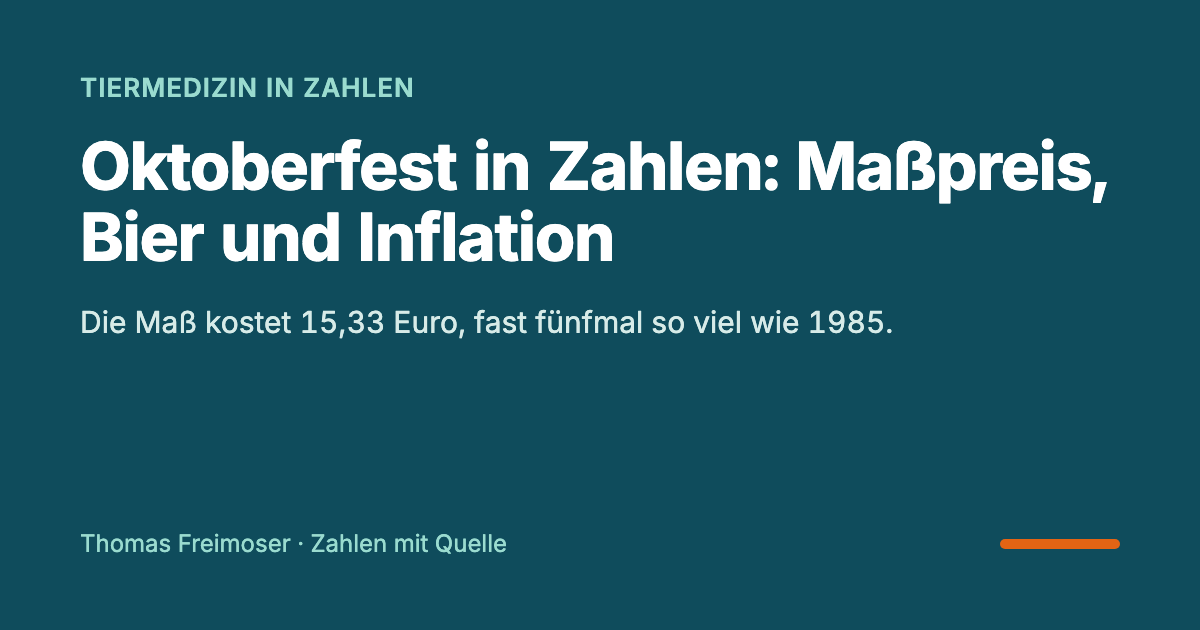
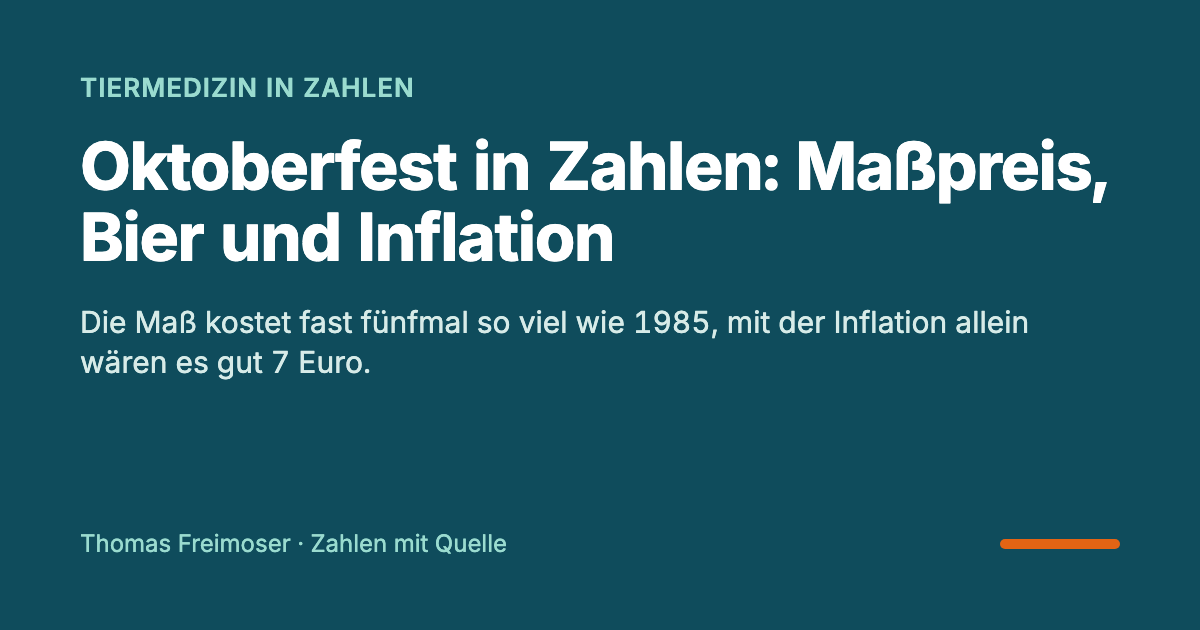
Oktoberfest: Wiesn 2026 vorläufig, Besucher als zweite Säule
- 2026 nach der Bilanz der Stadt (7,4 Mio. Besucher, Rekord), Bier und
  Maßpreis aus den gemeldeten Steigerungen fortgeschrieben, Inflation aus
  den Monatsraten Januar bis September
- Bier und Besucher als zwei Säulen nebeneinander
- Artikel: "Mehr Gäste, weniger Bier pro Kopf" (0,93 Liter, niedrigster Wert seit 2001)

Changed region(s): [[0.0617, 0.4825, 0.8633, 0.6032]]

diff --git a/src/samples/data.ts b/src/samples/data.ts
@@ -397,49 +397,50 @@ export const GESCHLECHT_PRAXIS = {
 }
 
 export const OKTOBERFEST = {
-  headers: ["Jahr","Bier (Mio. Liter)","Maß","Maß mit Inflation","Gesamt: Besucher (Mio.)"],
+  headers: ["Jahr","Bier (Mio. Liter)","Besucher (Mio.)","Maß","Maß mit Inflation"],
   rows: [
-    ["1985", 5.45, 3.2, 3.2, 7.1],
-    ["1986", 5.38, 3.3, 3.2, 6.7],
-    ["1987", 5.18, 3.37, 3.2, 6.5],
-    ["1988", 5.1, 3.45, 3.24, 5.7],
-    ["1989", 5.12, 3.6, 3.34, 6.2],
-    ["1990", 5.43, 3.77, 3.42, 6.7],
-    ["1991", 5.47, 4.21, 3.55, 6.4],
-    ["1992", 4.89, 4.42, 3.73, 5.9],
-    ["1993", 5.19, 4.71, 3.9, 6.5],
-    ["1994", 5.21, 4.89, 4, 6.6],
-    ["1995", 5.02, 5.15, 4.07, 6.7],
-    ["1996", 5.26, 5.24, 4.13, 6.9],
-    ["1997", 5.59, 5.45, 4.21, 6.4],
-    ["1998", 5.48, 5.6, 4.25, 6.5],
-    ["1999", 6.01, 5.8, 4.27, 6.5],
-    ["2000", 6.46, 6.35, 4.33, 6.9],
-    ["2001", 4.87, 6.47, 4.42, 5.5],
-    ["2002", 5.76, 6.75, 4.48, 5.9],
-    ["2003", 6.23, 6.75, 4.53, 6.3],
-    ["2004", 6.12, 7.02, 4.6, 5.9],
-    ["2005", 6.18, 7.15, 4.68, 6.1],
-    ["2006", 6.86, 7.42, 4.75, 6.5],
-    ["2007", 6.94, 7.85, 4.86, 6.2],
-    ["2008", 6.49, 8.25, 4.99, 6],
-    ["2009", 6.64, 8.53, 5, 5.7],
-    ["2010", 7.1, 8.79, 5.05, 6.4],
-    ["2011", 7.92, 9.09, 5.16, 6.9],
-    ["2012", 7.4, 9.41, 5.26, 6.4],
-    ["2013", 7.7, 9.78, 5.34, 6.4],
-    ["2014", 7.68, 9.98, 5.39, 6.3],
-    ["2015", 7.51, 10.27, 5.42, 5.9],
-    ["2016", 6.62, 10.57, 5.45, 5.6],
-    ["2017", 7.78, 10.87, 5.53, 6.2],
-    ["2018", 7.87, 11.3, 5.63, 6.3],
-    ["2019", 7.85, 11.71, 5.71, 6.3],
-    ["2020", null, null, 5.74, null],
-    ["2021", null, null, 5.91, null],
-    ["2022", 7.13, 13.45, 6.32, 5.7],
-    ["2023", 7.44, 14.33, 6.69, 7.2],
-    ["2024", 6.96, 14.9, 6.84, 6.8],
-    ["2025", 6.71, 15.33, 6.99, 6.5],
+    ["1985", 5.45, 7.1, 3.2, 3.2],
+    ["1986", 5.38, 6.7, 3.3, 3.2],
+    ["1987", 5.18, 6.5, 3.37, 3.2],
+    ["1988", 5.1, 5.7, 3.45, 3.24],
+    ["1989", 5.12, 6.2, 3.6, 3.34],
+    ["1990", 5.43, 6.7, 3.77, 3.42],
+    ["1991", 5.47, 6.4, 4.21, 3.55],
+    ["1992", 4.89, 5.9, 4.42, 3.73],
+    ["1993", 5.19, 6.5, 4.71, 3.9],
+    ["1994", 5.21, 6.6, 4.89, 4],
+    ["1995", 5.02, 6.7, 5.15, 4.07],
+    ["1996", 5.26, 6.9, 5.24, 4.13],
+    ["1997", 5.59, 6.4, 5.45, 4.21],
+    ["1998", 5.48, 6.5, 5.6, 4.25],
+    ["1999", 6.01, 6.5, 5.8, 4.27],
+    ["2000", 6.46, 6.9, 6.35, 4.33],
+    ["2001", 4.87, 5.5, 6.47, 4.42],
+    ["2002", 5.76, 5.9, 6.75, 4.48],
+    ["2003", 6.23, 6.3, 6.75, 4.53],
+    ["2004", 6.12, 5.9, 7.02, 4.6],
+    ["2005", 6.18, 6.1, 7.15, 4.68],
+    ["2006", 6.86, 6.5, 7.42, 4.75],
+    ["2007", 6.94, 6.2, 7.85, 4.86],
+    ["2008", 6.49, 6, 8.25, 4.99],
+    ["2009", 6.64, 5.7, 8.53, 5],
+    ["2010", 7.1, 6.4, 8.79, 5.05],
+    ["2011", 7.92, 6.9, 9.09, 5.16],
+    ["2012", 7.4, 6.4, 9.41, 5.26],
+    ["2013", 7.7, 6.4, 9.78, 5.34],
+    ["2014", 7.68, 6.3, 9.98, 5.39],
+    ["2015", 7.51, 5.9, 10.27, 5.42],
+    ["2016", 6.62, 5.6, 10.57, 5.45],
+    ["2017", 7.78, 6.2, 10.87, 5.53],
+    ["2018", 7.87, 6.3, 11.3, 5.63],
+    ["2019", 7.85, 6.3, 11.71, 5.71],
+    ["2020", null, null, null, 5.74],
+    ["2021", null, null, null, 5.91],
+    ["2022", 7.13, 5.7, 13.45, 6.32],
+    ["2023", 7.44, 7.2, 14.33, 6.69],
+    ["2024", 6.96, 6.8, 14.9, 6.84],
+    ["2025", 6.71, 6.5, 15.33, 6.99],
+    ["2026", 6.89, 7.4, 15.69, 7.18],
   ],
 }
 

diff --git a/src/samples/index.ts b/src/samples/index.ts
@@ -303,22 +303,23 @@ export const SAMPLES: SampleDataset[] = [
     erstellt: '2026-10-04', geprueft: '2026-10-04',
     category: 'exkurs',
     title: 'Die Maß wird teurer, getrunken wird mehr',
-    subtitle: 'Oktoberfest München: Bier in Mio. Liter (Säulen) und Preis einer Maß, 1985 bis 2025',
-    source: 'Quelle: Landeshauptstadt München, Statistisches Amt (Open Data, dl-de/by-2-0); Verbraucherpreisindex: Destatis. 2020/21 keine Wiesn',
+    subtitle: 'Oktoberfest München: Bier und Besucher (Säulen), Preis einer Maß (Linien), 1985 bis 2026',
+    source: 'Quelle: Landeshauptstadt München, Statistisches Amt (Open Data, dl-de/by-2-0), 2026 vorläufig nach Bilanz der Stadt; Verbraucherpreisindex: Destatis. 2020/21 keine Wiesn',
     sourceUrl: 'https://opendata.muenchen.de/dataset/oktoberfest',
     unit: 'Mio. Liter',
-    description: 'Die Maß kostet fast fünfmal so viel wie 1985, mit der Inflation allein wären es 6,99 Euro. Getrunken wird trotzdem mehr.',
+    description: 'Die Maß kostet fast fünfmal so viel wie 1985, mit der Inflation allein wären es gut 7 Euro. 2026 kamen so viele Gäste wie nie.',
     dataInfo: [
       "Bier, Maßpreis und Besucher stammen unverändert aus der Oktoberfest-Statistik des Statistischen Amts München (Open Data Portal, Stand 13.07.2026). Bier ist der Ausschank laut Festwirten, umgerechnet von Hektolitern in Millionen Liter; Besucher sind geschätzt. Der Maßpreis ist der Durchschnitt aller Zelte, vor 2002 aus D-Mark in Euro umgerechnet.",
       "„Maß mit Inflation“ ist berechnet: der Maßpreis von 1985, fortgeschrieben mit dem Verbraucherpreisindex für Deutschland (Destatis, Jahresdurchschnitte). Für 1985 bis 1990 gibt es keinen gesamtdeutschen Index; dort gilt der Index des früheren Bundesgebiets, 1991 verkettet. 2025 ist aus der amtlichen Jahresrate von 2,2 Prozent fortgeschrieben.",
+      "2026 ist vorläufig, nach der Bilanz der Stadt vom 04.10.2026: 7,4 Millionen Besucher (erste Schätzung der Festleitung). Bier und Maßpreis sind die amtlichen Werte von 2025, fortgeschrieben mit den gemeldeten Steigerungen (Festbier +2,7 Prozent, Maßpreis +2,38 Prozent), weil die Stadt in der Bilanz anders zählt als das Statistische Amt. Die Inflation 2026 ist das Mittel der Monatsraten Januar bis September.",
       "2020 und 2021 fiel die Wiesn wegen Corona aus. Diese Jahre bleiben leer, es wird nichts aufgefüllt; nur die Inflation läuft weiter. Die Wiesn dauerte je nach Jahr 16 bis 18 Tage, das erklärt einen Teil der Schwankungen bei Bier und Besuchern.",
     ],
     headers: OKTOBERFEST.headers,
     rows: OKTOBERFEST.rows,
     suggested: {
-      chartType: 'combo', decimals: 1, primaryAxisLabel: 'Bier in Mio. Liter', secondaryAxisLabel: 'Preis einer Maß',
+      chartType: 'combo', decimals: 1, primaryAxisLabel: 'Millionen (Liter bzw. Besucher)', secondaryAxisLabel: 'Preis einer Maß',
       secondaryAxis: ['Maß', 'Maß mit Inflation'], secondaryDecimals: 2, secondarySuffix: ' €', showChange: true, gapFill: 'none',
-      colors: { 'Bier (Mio. Liter)': '#f3a712', 'Maß': '#0f4c5c', 'Maß mit Inflation': '#8a949e' },
+      colors: { 'Bier (Mio. Liter)': '#f3a712', 'Besucher (Mio.)': '#7fb7be', 'Maß': '#0f4c5c', 'Maß mit Inflation': '#8a949e' },
     },
   },
   {

diff --git a/artikel/datenherkunft.html b/artikel/datenherkunft.html
@@ -296,17 +296,21 @@
           <strong>Quelle:</strong> Statistisches Amt der Landeshauptstadt München, Datensatz „Oktoberfest 1985–2025“ im
           <a href="https://opendata.muenchen.de/dataset/oktoberfest" rel="noopener">Open Data Portal München</a>, Stand
           13.07.2026, Datenlizenz Deutschland – Namensnennung – Version 2.0. Verbraucherpreisindex: Statistisches
-          Bundesamt, Lange Reihen ab 1948. <strong>Zeitraum:</strong> 1985 bis 2025, ohne 2020 und 2021.
+          Bundesamt, Lange Reihen ab 1948. <strong>Zeitraum:</strong> 1985 bis 2026, ohne 2020 und 2021; 2026 vorläufig nach der
+          <a href="https://www.muenchen.de/veranstaltungen/oktoberfest/aktuell/oktoberfest-bilanz-2026" rel="noopener">Bilanz der Stadt vom 04.10.2026</a>.
         </p>
         <p>
           <strong>Annahmen:</strong> Bier, Maßpreis und Besucher unverändert aus der Quelle, Hektoliter in Liter
           umgerechnet. Besucher sind geschätzt, Bier und Hendl beruhen auf Angaben der Festwirte. „Maß mit Inflation“ ist
           berechnet: Maßpreis 1985 mal Verbraucherpreisindex des Jahres durch den von 1985. Bis 1990 gilt der Index des
-          früheren Bundesgebiets, 1991 verkettet; 2025 ist aus der Jahresrate von 2,2 Prozent fortgeschrieben.
+          früheren Bundesgebiets, 1991 verkettet; 2025 ist aus der Jahresrate von 2,2 Prozent fortgeschrieben, 2026 aus dem
+          Mittel der Monatsraten Januar bis September (2,6 Prozent). 2026: Besucher laut erster Schätzung der Festleitung,
+          Bier und Maßpreis als amtliche Werte 2025 mal den gemeldeten Steigerungen (+2,7 und +2,38 Prozent), weil die
+          Bilanz der Stadt anders zählt als die amtliche Reihe.
         </p>
         <p>
-          <strong>Aufbereitet:</strong> Bier als Säulen, Maßpreis und Inflation als Linien mit Veränderung seit 1985,
-          Besucher als mitlaufende Zahl. 2020 und 2021 bleiben leer, nichts wird aufgefüllt. Die Erläuterung steht im
+          <strong>Aufbereitet:</strong> Bier und Besucher als Säulen nebeneinander, Maßpreis und Inflation als Linien mit
+          Veränderung seit 1985. 2020 und 2021 bleiben leer, nichts wird aufgefüllt. Die Erläuterung steht im
           Artikel <a href="../beitrag/oktoberfest-masspreis-inflation.html">Oktoberfest in Zahlen</a>.
         </p>
         <p class="meta">Recherchiert 04.10.2026 · zuletzt geprüft 04.10.2026</p>

diff --git a/src/content/artikel/exkurs-oktoberfest-masspreis.md b/src/content/artikel/exkurs-oktoberfest-masspreis.md
@@ -2,26 +2,26 @@
 art: exkurs
 slug: oktoberfest-masspreis-inflation
 titel: Oktoberfest in Zahlen: Maßpreis, Bier und Inflation
-beschreibung: Die Maß kostet 15,33 Euro, fast fünfmal so viel wie 1985. Mit der Inflation allein wären es 6,99 Euro. Getrunken wird trotzdem mehr. Daten seit 1985.
+beschreibung: Die Maß kostet fast fünfmal so viel wie 1985, mit der Inflation allein wären es gut 7 Euro. 2026 kamen 7,4 Millionen Gäste, so viele wie nie.
 frage: Wie stark ist der Bierpreis auf dem Oktoberfest gestiegen?
 suchbegriffe: maßpreis oktoberfest entwicklung, bierpreis wiesn seit 1985, oktoberfest statistik, maß bier preis inflation, oktoberfest bierkonsum
 stand: 2026-10-04
 grafik: oktoberfest
 bereit: ja
 ---
-Eine Maß auf dem Oktoberfest kostete 2025 im Schnitt **15,33 Euro, fast fünfmal so viel wie 1985** mit 3,20 Euro. Wäre sie nur mit den Verbraucherpreisen gestiegen, läge sie heute bei **6,99 Euro**. Getrunken wird trotzdem mehr: 6,7 Millionen Liter statt 5,5 Millionen, bei etwa gleich vielen Besuchern. Das zeigen die Zahlen des Statistischen Amts München für 39 Wiesn seit 1985.
+Eine Maß auf dem Oktoberfest kostete 2025 im Schnitt **15,33 Euro, fast fünfmal so viel wie 1985** mit 3,20 Euro, 2026 nach vorläufigen Zahlen rund 15,69 Euro. Wäre sie nur mit den Verbraucherpreisen gestiegen, läge sie heute bei **gut 7 Euro**. Getrunken wird trotzdem mehr als 1985, und die Wiesn 2026 hatte mit **7,4 Millionen Gästen** so viele wie nie. Pro Kopf floss dabei aber so wenig Bier wie seit 2001 nicht mehr. Das zeigen die Zahlen des Statistischen Amts München für 39 Wiesn seit 1985 und die Bilanz der Stadt von heute.
 
 ## Ein Exkurs, und warum
 
-Auf dieser Seite geht es sonst um Tierärzte, Praxen und Haustiere. Heute, am letzten Wiesn-Tag 2026, geht es ums Bier, aus einem Grund: Das [Studio](../studio/), mit dem alle Grafiken dieser Seite entstehen, hat ein neues Diagramm bekommen, **Säulen + Linie**. Es zeigt zwei Einheiten in einem Bild, hier die Biermenge als Säulen und den Maßpreis als Linie. Dafür braucht es Daten, bei denen Menge und Preis zusammen eine Geschichte erzählen. Die Wiesn liefert sie.
+Auf dieser Seite geht es sonst um Tierärzte, Praxen und Haustiere. Heute, am letzten Wiesn-Tag 2026, geht es ums Bier, aus einem Grund: Das [Studio](../studio/), mit dem alle Grafiken dieser Seite entstehen, hat ein neues Diagramm bekommen, **Säulen + Linie**. Es zeigt zwei Einheiten in einem Bild, hier Bier und Besucher als Säulen nebeneinander und den Maßpreis als Linie. Dafür braucht es Daten, bei denen Menge und Preis zusammen eine Geschichte erzählen. Die Wiesn liefert sie.
 
 ## Das Wichtigste in Kürze
 
-- **Maßpreis:** 3,20 Euro 1985, 15,33 Euro 2025, plus 379 Prozent. 2015 kostete die Maß zum ersten Mal mehr als 10 Euro.
-- **Inflation:** Die Verbraucherpreise stiegen im selben Zeitraum um 118 Prozent. Die Maß ist also auch nach Abzug der Inflation mehr als doppelt so teuer wie 1985 (Faktor 2,19, berechnet).
-- **Bier:** 5,5 Millionen Liter 1985, 6,7 Millionen 2025, plus 23 Prozent. Der Rekord stammt von 2011 mit 7,9 Millionen Litern.
-- **Besucher:** 7,1 Millionen 1985, 6,5 Millionen 2025. Der Rekord von 7,2 Millionen fiel 2023, auf einer Wiesn mit 18 statt 16 Tagen.
-- **Liter je Besucher:** von 0,77 im Jahr 1985 auf 1,27 im Jahr 2015. Seit 2023 sind es nur noch rund 1,03 (berechnet).
+- **Maßpreis:** 3,20 Euro 1985, 15,33 Euro 2025, plus 379 Prozent. 2026 vorläufig 15,69 Euro, plus 390 Prozent. 2015 kostete die Maß zum ersten Mal mehr als 10 Euro.
+- **Inflation:** Die Verbraucherpreise stiegen von 1985 bis 2026 um 124 Prozent. Die Maß ist also auch nach Abzug der Inflation mehr als doppelt so teuer wie 1985 (Faktor 2,19, berechnet).
+- **Besucher:** 7,1 Millionen 1985, 6,5 Millionen 2025, **7,4 Millionen 2026**, Rekord. Der alte Rekord von 7,2 Millionen stammte von 2023, auf einer Wiesn mit 18 statt 16 Tagen.
+- **Bier:** 5,5 Millionen Liter 1985, 6,7 Millionen 2025, 2026 vorläufig rund 6,9 Millionen. Der Rekord stammt von 2011 mit 7,9 Millionen Litern.
+- **Liter je Besucher:** von 0,77 im Jahr 1985 auf 1,27 im Jahr 2015. 2023 bis 2025 waren es rund 1,03, 2026 nur noch 0,93, der niedrigste Wert seit 2001 (berechnet, 2026 vorläufig).
 - **Hendl:** 629.520 im Jahr 1985, 351.461 im Jahr 2025, minus 44 Prozent. Der Preis eines halben Hendl stieg von 4,77 auf 18,53 Euro.
 
 ## Die Reihe seit 1985
@@ -35,26 +35,27 @@ Auf dieser Seite geht es sonst um Tierärzte, Praxen und Haustiere. Heute, am le
 | 2019 | 11,71 € | 5,71 € | 7,9 | 6,3 | 1,25 |
 | 2023 | 14,33 € | 6,69 € | 7,4 | 7,2 | 1,03 |
 | 2025 | 15,33 € | 6,99 € | 6,7 | 6,5 | 1,03 |
+| 2026* | 15,69 € | 7,18 € | 6,9 | 7,4 | 0,93 |
 
-*„Maß nur mit Inflation“: der Preis von 1985, fortgeschrieben mit dem Verbraucherpreisindex. Liter je Besucher: Bier geteilt durch Besucher. Beides berechnet. 2020 und 2021 fiel die Wiesn wegen Corona aus.*
+*„Maß nur mit Inflation“: der Preis von 1985, fortgeschrieben mit dem Verbraucherpreisindex. Liter je Besucher: Bier geteilt durch Besucher. Beides berechnet. 2020 und 2021 fiel die Wiesn wegen Corona aus. *2026 vorläufig: Besucher laut Bilanz der Stadt vom 4. Oktober, Bier und Maßpreis aus den Werten 2025 und den gemeldeten Steigerungen fortgeschrieben, Inflation als Mittel der Monate Januar bis September.*
 
 ## Teurer als die Inflation, Jahr für Jahr
 
 Die beiden Linien laufen schon in den ersten Jahren auseinander und kommen sich nie wieder nahe. 1995 kostete die Maß 5,15 Euro, mit der Inflation wären es 4,07 gewesen. 2015 lag der Abstand bei fast fünf Euro, 2025 bei 8,34 Euro. Den größten Sprung gab es nach der Corona-Pause: von 11,71 Euro 2019 auf 13,45 Euro 2022, ein Plus von 15 Prozent in einem Schritt.
 
-Gemessen an der Teuerung insgesamt hat sich die Maß damit real mehr als verdoppelt. 2026 kostet sie laut Stadt München je nach Zelt zwischen 14,80 und 15,90 Euro, im Schnitt 2,4 Prozent mehr als im Vorjahr.
+Gemessen an der Teuerung insgesamt hat sich die Maß damit real mehr als verdoppelt. 2026 kostete sie laut Stadt München je nach Zelt zwischen 14,80 und 15,90 Euro, im Schnitt 2,4 Prozent mehr als im Vorjahr. Die Verbraucherpreise stiegen in den ersten neun Monaten 2026 im Mittel um 2,6 Prozent: In diesem einen Jahr ist die Maß also ausnahmsweise etwas langsamer teurer geworden als alles andere.
 
-## Getrunken wird trotzdem mehr, bis zu einer Grenze
+## Mehr Gäste, weniger Bier pro Kopf
 
-Trotz des Preises stieg die Biermenge bis 2011 fast stetig. Weil die Zahl der Besucher dabei kaum wuchs, trank jeder Einzelne mehr: 1985 kamen auf einen Besucher rechnerisch 0,77 Liter, 2015 waren es 1,27 Liter, mehr als eine Maß pro Kopf.
+In der Grafik stehen Bier und Besucher als Säulen nebeneinander, beide in Millionen. Bis 2003 ist die Besuchersäule in jedem Jahr die höhere: mehr Gäste als Liter Bier. 2004 überholt das Bier die Besucher und bleibt bis 2025 vorn. Weil die Zahl der Besucher kaum wuchs, trank jeder Einzelne mehr: 1985 kamen auf einen Besucher rechnerisch 0,77 Liter, 2015 waren es 1,27 Liter, mehr als eine Maß pro Kopf.
 
-Seit 2023 hat sich das gedreht. Bei 14 bis 15 Euro je Maß liegt der Wert nur noch bei rund 1,03 Litern, so niedrig wie seit 2005 nicht mehr. Ob das am Preis liegt, an mehr Familien und Tagesgästen oder an der Zählung, sagen die Zahlen nicht. Auffällig ist, dass die Festwirte 2025 erstmals deutlich mehr alkoholfreies Bier meldeten, 5.638 Hektoliter nach 2.400 im Vorjahr.
+Seit 2023 hat sich das gedreht. Bei 14 bis 15 Euro je Maß lag der Wert 2023 bis 2025 nur noch bei rund 1,03 Litern, und 2026 liegen die Besucher zum ersten Mal seit 2003 wieder vorn: 7,4 Millionen Gäste, aber nur rund 6,9 Millionen Liter. Das sind 0,93 Liter pro Kopf, so wenig wie seit 2001 nicht mehr. Die Stadt erklärt den Besucherrekord vor allem mit vollen Werktagen, unter der Woche kamen bis zu 29 Prozent mehr Gäste, und mit spätsommerlichem Wetter. Ob mehr Familien und Tagesgäste, der Preis oder die Zählung den Wert drücken, sagen die Zahlen nicht. Auffällig ist der Trend zu alkoholfreiem Bier: 2025 meldeten die Festwirte 5.638 Hektoliter nach 2.400 im Vorjahr, 2026 noch einmal 10,7 Prozent mehr.
 
 Der Umsatz mit Bier, Menge mal Durchschnittspreis, lag 2025 bei rund 103 Millionen Euro, 1985 bei 17 Millionen (berechnet).
 
 ## Das Hendl verliert
 
-Beim Hendl ist es umgekehrt: Der Preis stieg weniger stark als der der Maß, plus 288 Prozent, aber gegessen wird viel weniger. 1991 meldeten die Wirte 807.710 Hendl, 2025 noch 351.461. Ein Teil davon ist kein Trend, sondern ein Bruch in der Reihe: 2001 halbiert sich die Zahl von einem Jahr aufs andere, bei nur leicht weniger Besuchern. Die Quelle erklärt das nicht, eine geänderte Erfassung liegt nahe. Auch danach geht es aber weiter abwärts, von 459.259 im Jahr 2002 auf 351.461.
+Beim Hendl ist es umgekehrt: Der Preis stieg weniger stark als der der Maß, plus 288 Prozent, aber gegessen wird viel weniger. 1991 meldeten die Wirte 807.710 Hendl, 2025 noch 351.461. Ein Teil davon ist kein Trend, sondern ein Bruch in der Reihe: 2001 halbiert sich die Zahl von einem Jahr aufs andere, bei nur leicht weniger Besuchern. Die Quelle erklärt das nicht, eine geänderte Erfassung liegt nahe. Auch danach geht es aber weiter abwärts, von 459.259 im Jahr 2002 auf 351.461 im Jahr 2025. Für 2026 melden die großen Wirte, das Hendl sei „wieder im Aufwind“; Zahlen dazu gibt es noch nicht.
 
 Welches Bier in welchem Zelt ausgeschenkt wird und was die Wiesnbiere unterscheiden, steht auf [BierDurst.org](https://bierdurst.org/oktoberfest/), meiner zweiten Seite, die sich ums Bier dreht.
 
@@ -62,11 +63,11 @@ Welches Bier in welchem Zelt ausgeschenkt wird und was die Wiesnbiere unterschei
 
 Die Grafik oben entsteht aus einer einfachen Tabelle: eine Zeile je Jahr, eine Spalte je Reihe. Neu ist die Zuordnung:
 
-- **Reihen der linken Achse werden Säulen**, hier das Bier in Millionen Litern.
+- **Reihen der linken Achse werden Säulen**, hier Bier und Besucher, je Jahr nebeneinander.
 - **Reihen der rechten Achse werden Linien**, hier Maßpreis und Inflation in Euro.
 - **Hinter jedem Wert die Veränderung seit Beginn**, etwa „15,33 € (+379 %)“, auf Wunsch.
 - **Leere Jahre bleiben leer.** 2020 und 2021 erscheint keine Säule und keine Maß, nur die Inflation läuft weiter.
-- **Die Besucher laufen als Zahl oben links** mit, über eine Spalte namens `Gesamt: Besucher (Mio.)`.
+- **Eine Gesamtzahl kann oben links mitlaufen**, über eine Spalte wie `Gesamt: Besucher (Mio.)`. Hier stehen die Besucher lieber als Säule, weil der Vergleich mit dem Bier die Geschichte ist.
 
 Wie die Tabelle genau aussehen muss: [Säulen + Linie im Datenformat](../datenformat/saeulen-linie.html). Mit dem Knopf unter der Grafik öffnet sich der Datensatz im Studio, dort lässt er sich als Video für LinkedIn exportieren. Alles läuft im Browser, die Daten verlassen das Gerät nicht.
 
@@ -78,26 +79,30 @@ Auf dieser Seite wird das Format bald auch für die Tiermedizin gebraucht, etwa 
 - **Die Wiesn dauert nicht immer gleich lang.** 16 bis 18 Tage, je nachdem, wie der 3. Oktober fällt. Längere Wiesn haben mehr Besucher und mehr Bier.
 - **Der Maßpreis ist ein Durchschnitt** über alle Zelte. Vor 2002 hat die Quelle D-Mark in Euro umgerechnet.
 - **Die Inflation ist die für ganz Deutschland,** nicht die für München oder für Gaststätten. Für 1985 bis 1990 gibt es keinen gesamtdeutschen Index; dort gilt der des früheren Bundesgebiets, 1991 verkettet. 2025 ist aus der amtlichen Jahresrate von 2,2 Prozent fortgeschrieben.
-- **Die Bilanz der Wiesn 2026** erscheint erst nach dem heutigen letzten Tag und fehlt deshalb noch.
+- **2026 ist vorläufig.** Die Besucher sind die erste Schätzung der Festleitung. Für Bier und Maßpreis meldet die Stadt nur Steigerungsraten und zählt Bier anders als das Statistische Amt (2025: 6,5 Millionen Maß laut Wirten, 6,71 Millionen Liter in der amtlichen Reihe); deshalb sind die amtlichen Werte 2025 mit diesen Raten fortgeschrieben. Die Inflation 2026 ist das Mittel der Monate Januar bis September. Sobald das Statistische Amt die Reihe fortschreibt, wird 2026 ersetzt.
 
 ## Häufige Fragen
 
 ### Was kostet eine Maß auf dem Oktoberfest 2026?
 
-Je nach Zelt zwischen 14,80 und 15,90 Euro, laut Stadt München im Schnitt 2,4 Prozent mehr als 2025. Der Durchschnitt 2025 lag bei 15,33 Euro.
+Je nach Zelt zwischen 14,80 und 15,90 Euro, laut Stadt München im Schnitt 2,4 Prozent mehr als 2025. Der amtliche Durchschnitt 2025 lag bei 15,33 Euro, fortgeschrieben ergibt das rund 15,69 Euro.
 
 ### Wie viel hat eine Maß auf dem Oktoberfest 1985 gekostet?
 
 Im Schnitt 3,20 Euro, umgerechnet aus D-Mark. Seitdem ist der Preis um 379 Prozent gestiegen, die Verbraucherpreise um 118 Prozent.
 
+### Wie viele Besucher hatte das Oktoberfest 2026?
+
+Nach erster Schätzung der Festleitung 7,4 Millionen an 16 Tagen, so viele wie nie. Der bisherige Rekord waren 7,2 Millionen im Jahr 2023, auf einer Wiesn mit 18 Tagen.
+
 ### Wie viel Bier wird auf dem Oktoberfest getrunken?
 
-2025 waren es 67.127 Hektoliter, rund 6,7 Millionen Liter. Der Rekord stammt von 2011 mit 79.225 Hektolitern.
+2025 waren es laut Statistischem Amt 67.127 Hektoliter, rund 6,7 Millionen Liter. 2026 meldet die Stadt 6,7 Millionen Maß Festbier, 2,7 Prozent mehr als 2025. Der Rekord stammt von 2011 mit 79.225 Hektolitern.
 
 ### Was würde die Maß kosten, wenn sie nur mit der Inflation gestiegen wäre?
 
-6,99 Euro statt 15,33 Euro. Gerechnet ist der Preis von 1985 mal der Anstieg des Verbraucherpreisindex bis 2025.
+2025 wären es 6,99 Euro statt 15,33 Euro gewesen, 2026 rund 7,18 Euro statt 15,69 Euro. Gerechnet ist der Preis von 1985 mal der Anstieg des Verbraucherpreisindex.
 
 ## Quelle und Methode
 
-Oktoberfest: [Statistisches Amt München, Open Data Portal](https://opendata.muenchen.de/dataset/oktoberfest), Datei „Oktoberfest 1985–2025“, Stand 13.07.2026, Datenlizenz Deutschland – Namensnennung – Version 2.0. Werte unverändert übernommen, Hektoliter in Liter umgerechnet. Verbraucherpreisindex: [Destatis, Lange Reihen ab 1948](https://www.destatis.de/DE/Themen/Wirtschaft/Preise/Verbraucherpreisindex/Publikationen/Downloads-Verbraucherpreise/statistischer-bericht-verbraucherpreisindex-lange-reihen-5611103.html), Jahresdurchschnitte, 2025 aus der Jahresrate der Pressemitteilung vom 16.01.2026. Preise 2026 und alkoholfreies Bier: [Stadt München, Oktoberfest in Zahlen](https://www.muenchen.de/veranstaltungen/oktoberfest/wiesn-zahlen-rekorde). Berechnet sind „Maß nur mit Inflation“, Liter je Besucher, Umsatz und alle Veränderungsraten. Der Datensatz steht im Studio als „Die Maß wird teurer, getrunken wird mehr“.
+Oktoberfest: [Statistisches Amt München, Open Data Portal](https://opendata.muenchen.de/dataset/oktoberfest), Datei „Oktoberfest 1985–2025“, Stand 13.07.2026, Datenlizenz Deutschland – Namensnennung – Version 2.0. Werte unverändert übernommen, Hektoliter in Liter umgerechnet. Verbraucherpreisindex: [Destatis, Lange Reihen ab 1948](https://www.destatis.de/DE/Themen/Wirtschaft/Preise/Verbraucherpreisindex/Publikationen/Downloads-Verbraucherpreise/statistischer-bericht-verbraucherpreisindex-lange-reihen-5611103.html), Jahresdurchschnitte, 2025 aus der Jahresrate der Pressemitteilung vom 16.01.2026. Preise 2026 und alkoholfreies Bier 2025: [Stadt München, Oktoberfest in Zahlen](https://www.muenchen.de/veranstaltungen/oktoberfest/wiesn-zahlen-rekorde). 2026: [vorläufige Schlussbilanz der Stadt München](https://www.muenchen.de/veranstaltungen/oktoberfest/aktuell/oktoberfest-bilanz-2026) vom 04.10.2026; Inflation 2026 aus den Pressemitteilungen von Destatis zu Januar bis September. Berechnet sind „Maß nur mit Inflation“, Liter je Besucher, Umsatz und alle Veränderungsraten. Der Datensatz steht im Studio als „Die Maß wird teurer, getrunken wird mehr“.

diff --git a/docs/linkedin/post-exkurs-oktoberfest.md b/docs/linkedin/post-exkurs-oktoberfest.md
@@ -11,20 +11,20 @@ BierDurst https://bierdurst.org/oktoberfest/
 Heute endet die Wiesn. Zeit für einen kurzen Exkurs von der Tiermedizin. 🍺
 
 1985 kostete die Maß auf dem Oktoberfest 3,20 €.
-2025 waren es 15,33 €. Plus 379 Prozent.
+2026 sind es nach vorläufigen Zahlen rund 15,69 €. Plus 390 Prozent.
 
-Wäre sie nur mit der Inflation gestiegen, läge sie heute bei 6,99 €.
+Wäre sie nur mit der Inflation gestiegen, läge sie heute bei 7,18 €.
 Die Maß ist also auch nach Abzug der Teuerung mehr als doppelt so teuer.
 
-Und trotzdem wird mehr getrunken:
-6,7 statt 5,5 Millionen Liter, bei ungefähr gleich vielen Besuchern.
-Pro Kopf ging es bis 2015 auf 1,27 Liter hoch.
-Seit die Maß über 14 € kostet, sind es nur noch rund 1,03.
+Und die Wiesn 2026? 7,4 Millionen Gäste, so viele wie nie.
+Aber pro Kopf so wenig Bier wie seit 2001 nicht mehr: rund 0,93 Liter.
+2015 waren es noch 1,27 Liter.
+Im Video stehen Bier und Besucher deshalb als zwei Säulen nebeneinander. Bis 2003 lagen die Besucher vorn, dann 20 Wiesn lang das Bier, 2026 wieder die Besucher.
 
 Das Hendl verliert übrigens: 1991 meldeten die Wirte 807.710 Stück, 2025 noch 351.461.
 
 Warum ich das zeige? Mein Studio auf Tiermedizin in Zahlen hat ein neues Format bekommen: Säulen + Linie.
-Menge und Preis in einem Bild, die Veränderung in Prozent direkt am Wert, und Jahre ohne Wiesn bleiben ehrlich leer statt aufgefüllt.
+Mehrere Säulen nebeneinander, Preise als Linien darüber, die Veränderung in Prozent direkt am Wert, und Jahre ohne Wiesn bleiben ehrlich leer statt aufgefüllt.
 Für die Tiermedizin brauche ich es demnächst auch.
 
 Tabelle, Methode und alle Jahre zum Download:
@@ -33,7 +33,7 @@ https://tiermedizin-in-zahlen.org/beitrag/oktoberfest-masspreis-inflation.html
 Welches Bier in welchem Zelt läuft, steht auf meiner zweiten Seite rund ums Bier:
 https://bierdurst.org/oktoberfest/
 
-Quelle: Statistisches Amt München (Open Data), Verbraucherpreisindex: Destatis.
+Quelle: Statistisches Amt München (Open Data), 2026 vorläufig nach der Bilanz der Stadt von heute, Verbraucherpreisindex: Destatis.
 
 Prost, und ab morgen wieder Tiermedizin.
 

diff --git a/docs/DATASETS.md b/docs/DATASETS.md
@@ -197,7 +197,8 @@ Ersetzt eine extern zugelieferte Vorlage, in der 19 von 26 Jahren interpoliert o
 ## Die Maß wird teurer, getrunken wird mehr (`oktoberfest`, Exkurs)
 
 - **Quelle:** Statistisches Amt München, „Oktoberfest 1985–2025“ (Open Data Portal München, Stand 13.07.2026, dl-de/by-2-0, Namensnennung Pflicht). Verbraucherpreisindex: Destatis, Lange Reihen ab 1948, Jahresdurchschnitte; 2025 aus der Jahresrate +2,2 % (PM 019/2026). Rohdaten mit allen Feldern in `data/raw/ds15-oktoberfest.json`.
-- **Reihen:** Bier in Mio. Liter (Säulen, aus Hektolitern umgerechnet), Maß und Maß mit Inflation in Euro (Linien auf der rechten Achse), `Gesamt: Besucher (Mio.)` als mitlaufende Zahl. Diagrammart „Säulen + Linie“, Veränderung seit 1985 hinter jedem Wert, Lücken nicht aufgefüllt.
+- **Reihen:** Bier in Mio. Liter (aus Hektolitern umgerechnet) und Besucher in Mio., beide als Säulen nebeneinander; Maß und Maß mit Inflation in Euro (Linien auf der rechten Achse). Diagrammart „Säulen + Linie“, Veränderung seit 1985 hinter jedem Wert, Lücken nicht aufgefüllt.
 - **Berechnet:** „Maß mit Inflation“ = Maßpreis 1985 × VPI(Jahr) / VPI(1985). 1985–1990 Index des früheren Bundesgebiets, 1991 verkettet (61,9 / 89,0).
+- **2026 vorläufig** (Feld `vorlaeufig_2026` in den Rohdaten): Besucher 7,4 Mio. laut Bilanz der Stadt vom 04.10.2026; Bier = 2025 × 1,027 (Festbier laut Verein Münchner Brauereien), Maßpreis = 2025 × 1,0238 (durchschnittliche Steigerung laut Stadt), weil die Bilanz anders zählt als die amtliche Reihe (2025: 6,5 Mio. Maß laut Wirten, 67.127 hl amtlich). Inflation 2026 = Mittel der Vorjahresraten Januar–September (2,61 %). Ersetzen, sobald das Statistische Amt die Reihe fortschreibt.
 - **Lücken und Brüche:** 2020/21 keine Wiesn (Corona), die Zeilen haben nur den Inflationswert. Hendl (nicht im Diagramm, im Artikel): 2001 halbiert sich die Zahl, vermutlich geänderte Erfassung. Dauer 16–18 Tage.
 - **Freigabe:** gehört zu keinem Post; freigegeben über `datensaetzeOhnePost` in `src/content/freigabe.json`. Rubrik „Exkurs“.

diff --git a/CHANGELOG.md b/CHANGELOG.md
@@ -6,6 +6,8 @@ Alle nennenswerten Änderungen dieses Projekts. Format lose nach [Keep a Changel
 
 ### Neues Format „Säulen + Linie“, Exkurs Oktoberfest (04.10.2026)
 
+- **Nachtrag am Abend:** Wiesn 2026 vorläufig ergänzt (Bilanz der Stadt: 7,4 Mio. Besucher, Rekord; Bier und Maßpreis aus den gemeldeten Steigerungen fortgeschrieben, Inflation aus den Monatsraten). Besucher stehen jetzt als zweite Säule neben dem Bier statt als Zahl oben links. Artikel um „Mehr Gäste, weniger Bier pro Kopf“ erweitert (0,93 Liter je Besucher, niedrigster Wert seit 2001).
+
 - **Neue Diagrammart Säulen + Linie** (`combo`): Reihen der linken Achse als Säulen, Reihen mit Y2 als Linien. Umgesetzt als Modus des Linienrenderers, damit feste Achsen, mitlaufende Summen, Glätte und der Bild-für-Bild-Export gleich bleiben. Jede Säule wächst hoch, bis die Linien ihr Jahr erreichen. Im Studio unter Format & Diagrammtyp, in der Grafik der Artikel und im Export.
 - **Veränderung seit Beginn in Prozent** hinter jedem Wert (Line Race und Säulen + Linie), etwa „15,33 € (+379 %)“. Ohne Veränderung steht nichts dahinter.
 - **Lücken mitten in einer Reihe** (zwei Jahre ohne Wiesn): Die Linie bleibt stehen statt zu verschwinden, Beschriftungen blenden vor der Lücke aus und danach wieder ein. `check:glaette` prüft das, 0 Sprünge.

diff --git a/src/content/datenformat/saeulen-linie.md b/src/content/datenformat/saeulen-linie.md
@@ -22,15 +22,15 @@ Säulen + Linie braucht **dieselbe Tabelle wie ein Line Race: eine Zeile je Zeit
 ## Beispiel
 
 ```csv
-Jahr,Bier (Mio. Liter),Maß,Maß mit Inflation,Gesamt: Besucher (Mio.)
-2018,7.87,11.3,5.63,6.3
-2019,7.85,11.71,5.71,6.3
-2020,,,5.74,
-2021,,,5.91,
-2022,7.13,13.45,6.32,5.7
+Jahr,Bier (Mio. Liter),Besucher (Mio.),Maß,Maß mit Inflation
+2018,7.87,6.3,11.3,5.63
+2019,7.85,6.3,11.71,5.71
+2020,,,,5.74
+2021,,,,5.91
+2022,7.13,5.7,13.45,6.32
 ```
 
-Ausschnitt aus dem Datensatz zum Oktoberfest: Bier als Säulen, Maßpreis und der mit der Inflation fortgeschriebene Preis von 1985 als Linien, Besucher als mitlaufende Zahl. 2020 und 2021 fiel die Wiesn aus; diese Zeilen haben nur den Inflationswert. Mehr dazu im Artikel [Oktoberfest in Zahlen](../beitrag/oktoberfest-masspreis-inflation.html).
+Ausschnitt aus dem Datensatz zum Oktoberfest: Bier und Besucher als zwei Säulen nebeneinander, beide in Millionen auf der linken Achse; Maßpreis und der mit der Inflation fortgeschriebene Preis von 1985 als Linien rechts. 2020 und 2021 fiel die Wiesn aus; diese Zeilen haben nur den Inflationswert. Mehr dazu im Artikel [Oktoberfest in Zahlen](../beitrag/oktoberfest-masspreis-inflation.html).
 
 ## Wann Säulen + Linie passt
 
